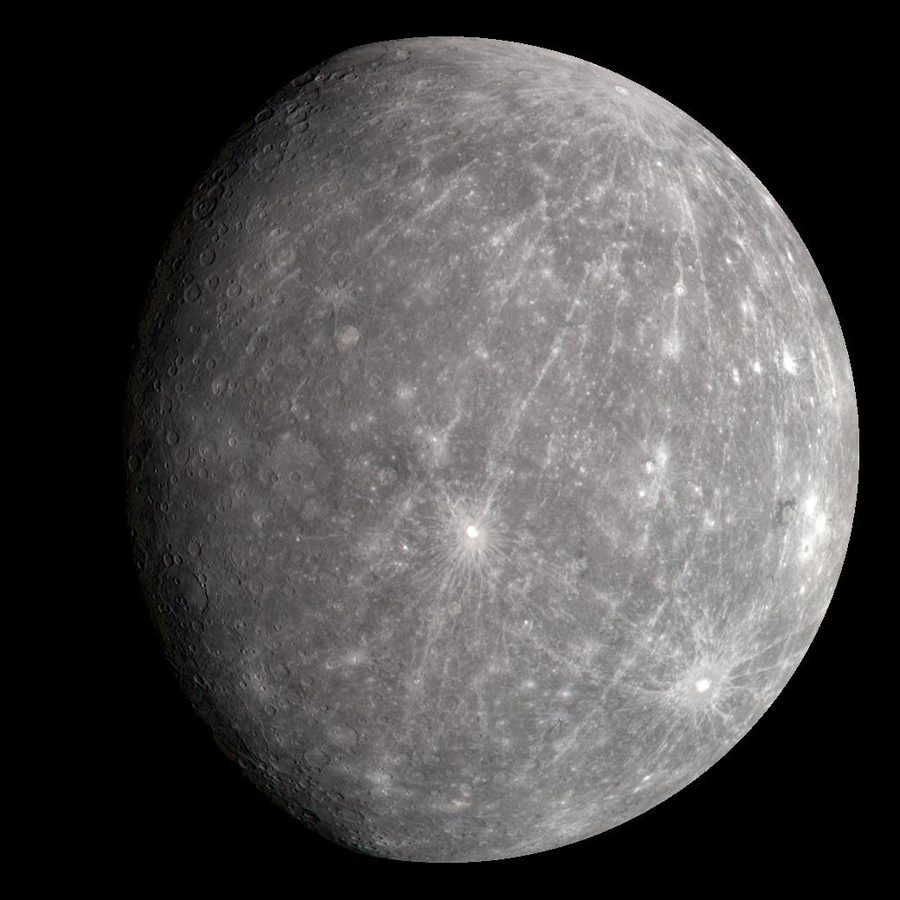
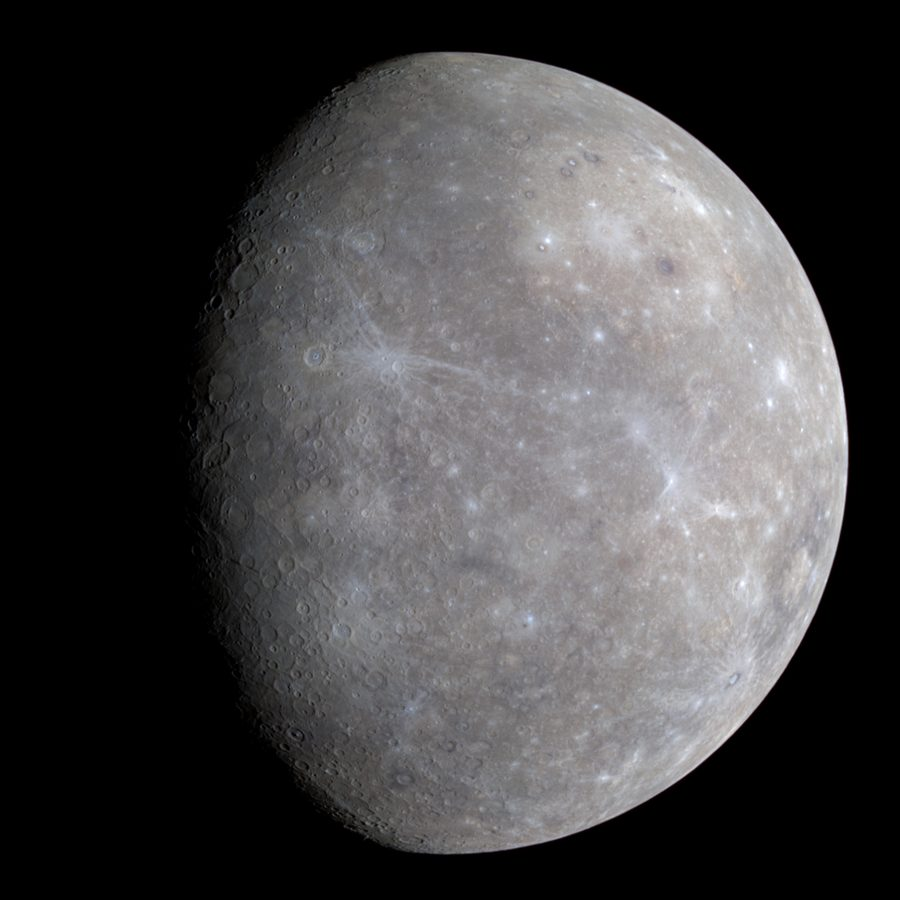
Fix planet cards: show whole sphere and replace Mercury image
- Add contain-card CSS class: object-fit:contain on dark background
  so full planet sphere is visible without edge cropping
- Same fix applied to gem cards
- Replace grey Mercury with NASA color-enhanced MESSENGER image
  (more distinctive orange/brown tones vs the Moon's grey)

Changed region(s): [[0.1244, 0.0311, 0.9644, 0.9644]]

diff --git a/psychic-test.html b/psychic-test.html
@@ -285,6 +285,8 @@ body::before {
 /* Image card (animals, zodiac, celebrities, brands) */
 .image-card-wrap { width:100%; height:100%; border-radius:12px; display:flex; flex-direction:column; align-items:center; justify-content:flex-end; position:relative; overflow:hidden; }
 .image-card-img { position:absolute; inset:0; width:100%; height:100%; object-fit:cover; object-position:center 20%; border-radius:12px; }
+.image-card-wrap.contain-card { background:#000; }
+.image-card-wrap.contain-card .image-card-img { object-fit:contain; object-position:center center; padding:12px 12px 36px; }
 .image-card-overlay { position:absolute; inset:0; background:linear-gradient(to top, rgba(0,0,0,0.75) 0%, transparent 55%); border-radius:12px; }
 .image-card-label { position:relative; z-index:2; font-family:'Cinzel',serif; font-size:13px; font-weight:700; color:#fff; text-align:center; padding:0 10px 14px; text-shadow:0 1px 4px rgba(0,0,0,0.8); }
 /* AI portrait card */
@@ -2059,7 +2061,7 @@ function renderPlanetCard(el, item) {
   const src = PLANET_PHOTOS[item.id];
   if(src) {
     el.innerHTML = `
-      <div class="image-card-wrap">
+      <div class="image-card-wrap contain-card">
         <img class="image-card-img" src="${src}" alt="${item.name}">
         <div class="image-card-overlay"></div>
         <div class="image-card-label">${item.name}</div>
@@ -2075,7 +2077,7 @@ function renderGemCard(el, item) {
   const src = GEM_PHOTOS[item.id];
   if(src) {
     el.innerHTML = `
-      <div class="image-card-wrap">
+      <div class="image-card-wrap contain-card">
         <img class="image-card-img" src="${src}" alt="${item.name}">
         <div class="image-card-overlay"></div>
         <div class="image-card-label">${item.name}</div>